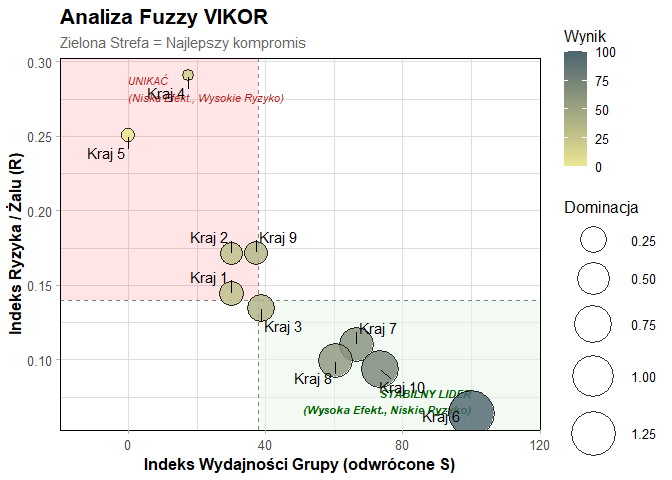
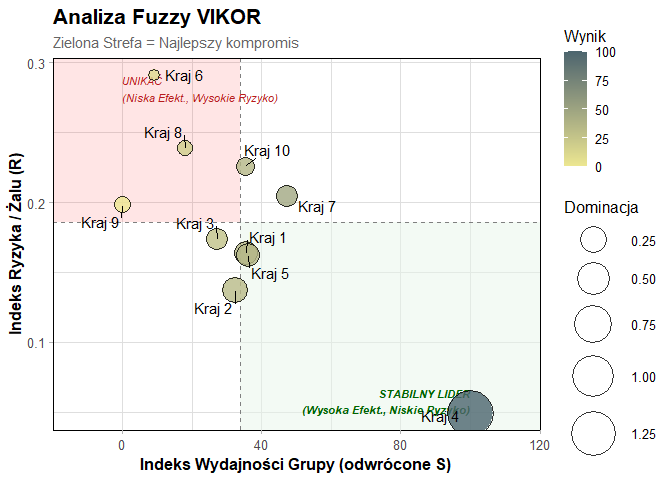
correcting data

diff --git a/README.md b/README.md
@@ -44,7 +44,6 @@ library(ITJobAbroadR)
 data("mcda_dane_surowe") 
 
 # 2. Przygotuj macierz rozmytą 
-# Definiujemy, które kolumny tworzą kryteria 
 skladnia <- "Warunki =~ war_oferty + war_siec + war_elast;
              Koszt =~ koszt_mieszkanie + koszt_jedzenie + koszt_transport;
              Atrakcyjnosc =~ atr_kultura + atr_jezyk + atr_obcy + atr_zdrowie;
@@ -55,7 +54,7 @@ macierz_rozmyta <- przygotuj_dane_mcda(mcda_dane_surowe, skladnia, kolumna_alter
 
 # 3. Oblicz ranking metodą Fuzzy VIKOR
 res_vikor <- fuzzy_vikor(macierz_decyzyjna = macierz_rozmyta,
-                     typy_kryteriow= c("min","max","max","min","min"),
+                     typy_kryteriow= c("max","min","max","max","min"),
                      bwm_kryteria = c("Warunki", "Koszt", "Atrakcyjnosc", "Rozwoj", "Strefa_czasowa"), 
                      bwm_najlepsze = c(1,3,2,6,8),
                      bwm_najgorsze = c(8,5,6,3,1)
@@ -64,20 +63,30 @@ res_vikor <- fuzzy_vikor(macierz_decyzyjna = macierz_rozmyta,
 
 # 4. Wyświetl wynik 
 print(res_vikor$wyniki)
-#>    Alternatywa         S          R         Q ranking
-#> 1            1 0.3459050 0.14454410 0.4392888       6
-#> 2            2 0.3462842 0.17117182 0.4703025       8
-#> 3            3 0.3147758 0.13465188 0.4141762       5
-#> 4            4 0.3913298 0.29070491 0.6285342      10
-#> 5            5 0.4547699 0.25052115 0.6098063       9
-#> 6            6 0.0930141 0.06372314 0.2347465       1
-#> 7            7 0.2145565 0.11009372 0.3417719       4
-#> 8            8 0.2365612 0.09947639 0.3391229       3
-#> 9            9 0.3202589 0.17155513 0.4593323       7
-#> 10          10 0.1890987 0.09333401 0.3111909       2
+#>    Alternatywa          S          R         Q ranking
+#> 1            1 0.33202427 0.16358810 0.4644608       4
+#> 2            2 0.34483969 0.13696039 0.4398026       2
+#> 3            3 0.36810142 0.17348032 0.4907298       6
+#> 4            4 0.05192986 0.04862186 0.2174769       1
+#> 5            5 0.32926279 0.16227770 0.4618262       3
+#> 6            6 0.44637225 0.29070491 0.6557096      10
+#> 7            7 0.28029815 0.20398230 0.4883419       5
+#> 8            8 0.40827222 0.23870839 0.5811138       9
+#> 9            9 0.48625950 0.19831534 0.5682357       8
+#> 10          10 0.33316222 0.22567344 0.5349486       7
 
 # 5. Wyświetl mapę decyzyjną 
 plot(res_vikor)
 ```
 
 <img src="man/figures/README-example-1.png" width="100%" />
+
+## Raportowanie wyników
+
+Możesz wygenerować tabele w stylu APA z wynikami.
+
+``` r
+tabela_apa(res_vikor)
+```
+
+<img src="man/figures/README-tabela_apa-1.png" width="100%" />
